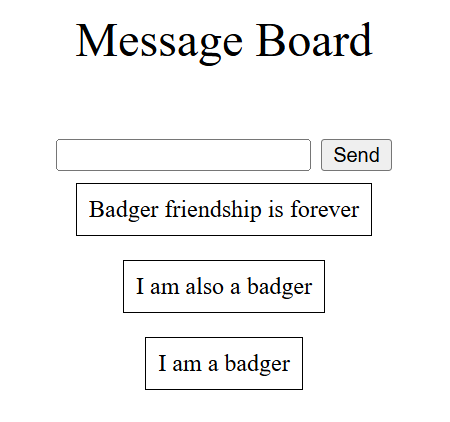
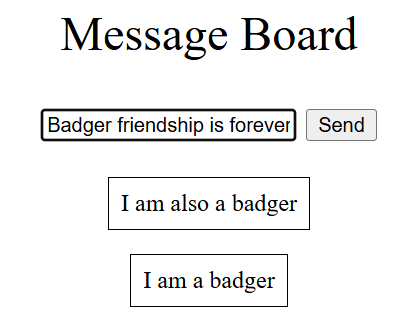
Slightly less off-putting screenshot

diff --git a/client/src/routes/NewMessage.svelte b/client/src/routes/NewMessage.svelte
@@ -26,7 +26,7 @@
 <style>
     .newmessage {
         display: flex;
-        margin-top: 1em;
+        margin-bottom: 1em;
     }
 
     .newmessage input {
